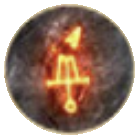
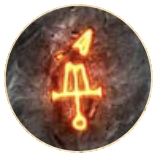
effect images update

diff --git a/tests/graph-logic.test.js b/tests/graph-logic.test.js
@@ -129,7 +129,8 @@ test('filterNodes by labelCategory keeps only trait nodes of that group', () => 
 test('effectIcon maps official effects that have artwork, else null', () => {
     assert.strictEqual(G.effectIcon('Attack increase'), 'effect_images/attack_increase.png');
     assert.strictEqual(G.effectIcon('Place obstacle'), 'effect_images/place_obstacle.png');
-    assert.strictEqual(G.effectIcon('Silence'), null);
+    assert.strictEqual(G.effectIcon('Silence'), 'effect_images/silence.png');
+    assert.strictEqual(G.effectIcon('Web'), 'effect_images/web.png');
     assert.strictEqual(G.effectIcon('Melee'), null);
 });
 

diff --git a/graph-logic.js b/graph-logic.js
@@ -293,7 +293,7 @@
     const EFFECT_ARTWORK = [
         'Attack increase', 'Attack decrease', 'Defense increase', 'Defense decrease',
         'Control increase', 'Control decrease', 'Swiftness', 'Slowness', 'Flying',
-        'Place obstacle', 'Resistance', 'Vampirism', 'Stun', 'Poison'
+        'Place obstacle', 'Resistance', 'Vampirism', 'Stun', 'Poison', 'Silence', 'Web'
     ];
 
     function effectIcon(label) {

diff --git a/tests/test_split_reference_images.py b/tests/test_split_reference_images.py
@@ -9,7 +9,7 @@ sys.path.insert(0, str(ROOT / "scripts"))
 
 import split_reference_images as sri  # noqa: E402
 
-EFFECT_SHEET = ROOT / "effect_images" / "effect_markers.png"
+EFFECT_SHEET = ROOT / "effect_images" / "effect_markers_v2.png"
 ABILITY_SHEET = ROOT / "ability_images" / "ability_ranges.png"
 
 
@@ -28,22 +28,27 @@ def ability_boxes():
 
 
 def test_name_lists_are_unique():
-    assert len(set(sri.EFFECT_NAMES)) == len(sri.EFFECT_NAMES) == 14
+    assert len(set(sri.EFFECT_NAMES)) == len(sri.EFFECT_NAMES) == 16
     assert len(set(sri.ABILITY_RANGE_NAMES)) == len(sri.ABILITY_RANGE_NAMES) == 8
 
 
+def test_effect_names_include_silence_and_web_in_sheet_order():
+    # Right column: ... Poison (cooldown), Silence, Occupied hex (obstacle), Web.
+    assert sri.EFFECT_NAMES[12:] == ["poison", "silence", "place_obstacle", "web"]
+
+
 def test_detects_one_square_box_per_effect_icon(effect_boxes):
-    assert len(effect_boxes) == 14
+    assert len(effect_boxes) == 16
     for left, top, right, bottom in effect_boxes:
         w, h = right - left, bottom - top
-        assert 110 <= w <= 150 and 110 <= h <= 150
+        assert 140 <= w <= 175 and 140 <= h <= 175
         assert abs(w - h) <= 2
 
 
 def test_effect_boxes_are_column_major(effect_boxes):
-    left_col, right_col = effect_boxes[:7], effect_boxes[7:]
-    assert all(b[2] < 700 for b in left_col)
-    assert all(b[0] > 690 for b in right_col)
+    left_col, right_col = effect_boxes[:8], effect_boxes[8:]
+    assert all(b[2] < 865 for b in left_col)
+    assert all(b[0] > 865 for b in right_col)
     for col in (left_col, right_col):
         tops = [b[1] for b in col]
         assert tops == sorted(tops)

diff --git a/scripts/split_reference_images.py b/scripts/split_reference_images.py
@@ -3,7 +3,7 @@
 Usage:
     python3 scripts/split_reference_images.py
 
-Reads  effect_images/effect_markers.png  -> effect_images/<effect>.png
+Reads  effect_images/effect_markers_v2.png  -> effect_images/<effect>.png
        ability_images/ability_ranges.png -> ability_images/<range>.png
 """
 from pathlib import Path
@@ -29,7 +29,9 @@ EFFECT_NAMES = [
     "vampirism",
     "stun",
     "poison",
+    "silence",
     "place_obstacle",
+    "web",
 ]
 
 # Column-major order as laid out on the sheet.
@@ -175,7 +177,7 @@ def split_abilities(sheet_path, out_dir):
 
 
 if __name__ == "__main__":
-    for path in split_effects(ROOT / "effect_images" / "effect_markers.png", ROOT / "effect_images"):
+    for path in split_effects(ROOT / "effect_images" / "effect_markers_v2.png", ROOT / "effect_images"):
         print(path.relative_to(ROOT))
     for path in split_abilities(ROOT / "ability_images" / "ability_ranges.png", ROOT / "ability_images"):
         print(path.relative_to(ROOT))
